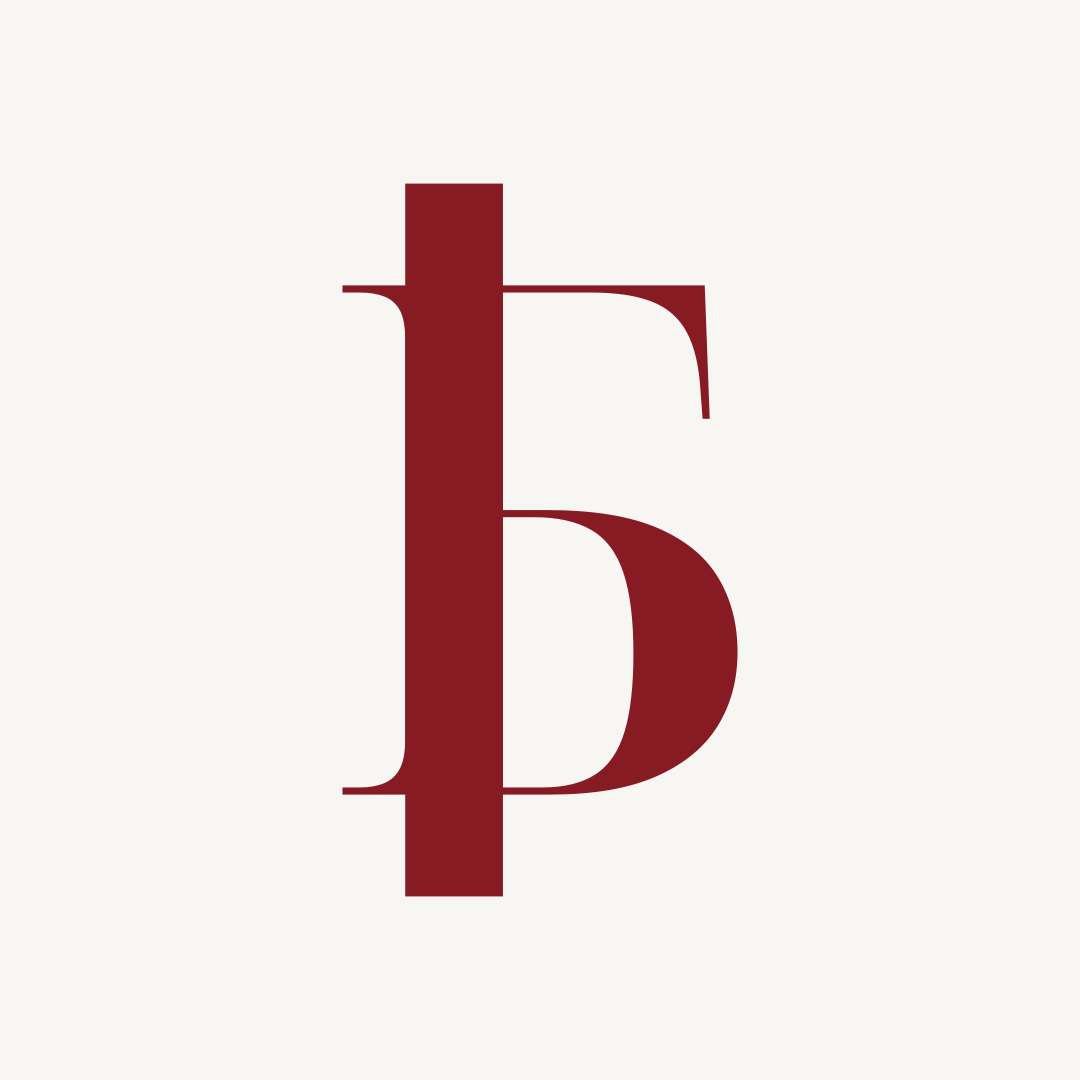
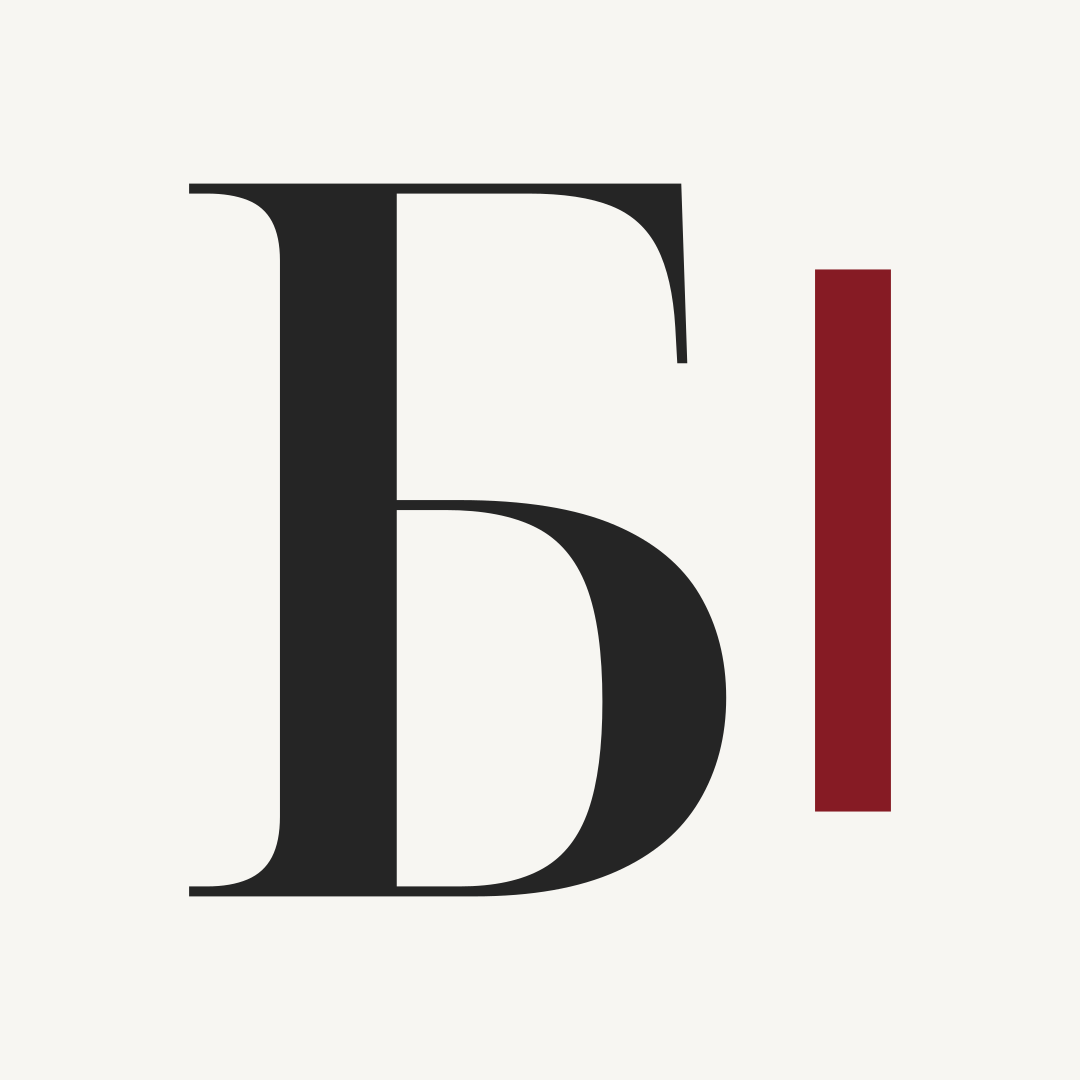
Логотип: «І» ще менша (76% висоти); іконки й OG — монограма «БІ» з актуального знака
Claude-Session: https://claude.ai/code/session_017yCdLiK5V92M84kmyQv6Ej

Changed region(s): [[0.1833, 0.1528, 0.7028, 0.8556], [0.7333, 0.2444, 0.825, 0.7639]]

diff --git a/lib/wordmark.ts b/lib/wordmark.ts
@@ -1,3 +1,3 @@
 // Згенеровано: brand/tools (npm run build). Не редагуйте вручну.
-export const wordmark = {"viewBox":"-8 -768 4331 786","glyphs":["M328 0L42 0L42-10L60-10Q84-10 100.5-17Q117-24 125-39.5Q133-55 133-80L133-80L133-637Q133-661 125-676Q117-691 100.5-697.5Q84-704 60-704L60-704L42-704L42-714L535-714L541-534L531-534L529-570Q526-620 511-649.5Q496-679 465-691.5Q434-704 382-704L382-704L250-704L250-397L313-397Q410-397 468.5-372Q527-347 553.5-302Q580-257 580-199L580-199Q580-141 553-95.5Q526-50 470-25Q414 0 328 0L328 0ZM250-10L313-10Q365-10 396.5-28Q428-46 442-86.5Q456-127 456-195L456-195Q456-269 440-310.5Q424-352 389.5-369.5Q355-387 299-387L299-387L250-387L250-10Z","M891 7L891 7Q849 7 827-12.5Q805-32 805-65L805-65Q805-91 817.5-106.5Q830-122 850-127L850-127Q855-112 871-96Q887-80 917-80L917-80Q930-80 947-85.5Q964-91 983-107Q1002-123 1019.5-155.5Q1037-188 1051-241L1051-241Q1059-274 1066.5-317.5Q1074-361 1080-407.5Q1086-454 1090.5-497.5Q1095-541 1097-575Q1099-609 1099-628L1099-628Q1099-662 1089-678Q1079-694 1061.5-699Q1044-704 1019-704L1019-704L957-704L957-714L1486-714L1486-704L1458-704Q1434-704 1417.5-697Q1401-690 1392.5-674.5Q1384-659 1384-634L1384-634L1384-80Q1384-55 1392.5-39.5Q1401-24 1417.5-17Q1434-10 1458-10L1458-10L1479-10L1479 0L1173 0L1173-10L1194-10Q1217-10 1234-17Q1251-24 1259-39.5Q1267-55 1267-80L1267-80L1267-704L1114-704Q1111-631 1105-555.5Q1099-480 1090.5-408Q1082-336 1070-272.5Q1058-209 1044-160L1044-160Q1025-96 1002.5-59.5Q980-23 953-8Q926 7 891 7Z","M1873 10L1873 10Q1765 10 1693.5-36Q1622-82 1587-165Q1552-248 1552-359L1552-359Q1552-470 1587-552Q1622-634 1694-679.5Q1766-725 1874-725L1874-725Q1977-725 2048.5-679.5Q2120-634 2157-551.5Q2194-469 2194-358L2194-358Q2194-247 2156.5-164.5Q2119-82 2047.5-36Q1976 10 1873 10ZM1873 0L1873 0Q1924 0 1961-20.5Q1998-41 2021-84.5Q2044-128 2055.5-196Q2067-264 2067-358L2067-358Q2067-452 2055.5-519.5Q2044-587 2021-630.5Q1998-674 1961.5-694.5Q1925-715 1874-715L1874-715Q1823-715 1786-694.5Q1749-674 1725-630.5Q1701-587 1689.5-519.5Q1678-452 1678-358L1678-358Q1678-264 1689.5-196Q1701-128 1724.5-84.5Q1748-41 1785-20.5Q1822 0 1873 0Z","M2565 0L2259 0L2259-10L2280-10Q2304-10 2320.5-17Q2337-24 2345.5-39Q2354-54 2354-79L2354-79L2354-638Q2354-662 2345.5-676.5Q2337-691 2320.5-697.5Q2304-704 2280-704L2280-704L2259-704L2259-714L2565-714L2565-704L2544-704Q2521-704 2504-697Q2487-690 2478.5-674.5Q2470-659 2470-634L2470-634L2470-305L2718-582Q2737-603 2749-619Q2761-635 2767-647.5Q2773-660 2773-670L2773-670Q2773-682 2763-689.5Q2753-697 2732-700Q2711-703 2677-703L2677-703L2677-714L2905-714L2905-703Q2882-703 2861-695.5Q2840-688 2816-668Q2792-648 2758-610L2758-610L2606-441L2821-126Q2844-92 2861.5-69.5Q2879-47 2892.5-34Q2906-21 2917-15.5Q2928-10 2940-10L2940-10L2942-10L2942 0L2919 0Q2867 0 2833.5-4.5Q2800-9 2778-19Q2756-29 2739.5-46.5Q2723-64 2706-91L2706-91L2529-355L2470-289L2470-80Q2470-55 2478.5-39.5Q2487-24 2504-17Q2521-10 2544-10L2544-10L2565-10L2565 0Z","M3247 0L2965 0L2965-10L2974-10Q3000-10 3018-17.5Q3036-25 3044.5-43Q3053-61 3053-95L3053-95L3053-668Q3053-700 3044-717.5Q3035-735 3018.5-742.5Q3002-750 2975-750L2975-750L2968-750L2968-760L3163-760L3163-482Q3163-463 3162-443L3162-443L3164-443Q3177-489 3201.5-511Q3226-533 3255.5-540Q3285-547 3311-547L3311-547Q3399-547 3442.5-500.5Q3486-454 3486-352L3486-352L3486-96Q3486-62 3493-43.5Q3500-25 3516.5-17.5Q3533-10 3559-10L3559-10L3563-10L3563 0L3376 0L3376-385Q3376-450 3354-489Q3332-528 3278-528L3278-528Q3234-528 3209-503Q3184-478 3173.5-437.5Q3163-397 3163-351L3163-351L3163-95Q3163-61 3171.5-43Q3180-25 3197.5-17.5Q3215-10 3240-10L3240-10L3247-10L3247 0Z","M3841 0L3598 0L3598-10L3630-10Q3652-10 3666-17Q3680-24 3691-40.5Q3702-57 3712-87L3712-87L3934-714L3998-714L4241-68Q4250-46 4258.5-33.5Q4267-21 4278.5-15.5Q4290-10 4305-10L4305-10L4315-10L4315 0L4025 0L4025-10L4057-10Q4090-10 4105.5-18.5Q4121-27 4121-49L4121-49Q4121-55 4120-61.5Q4119-68 4117.5-76.5Q4116-85 4112-94L4112-94L4052-260L3785-260L3729-103Q3725-94 3723-85Q3721-76 3719.5-68.5Q3718-61 3718-55L3718-55Q3718-30 3738.5-20Q3759-10 3805-10L3805-10L3841-10L3841 0ZM3861-477L3788-270L4048-270L3978-462Q3967-494 3956-525.5Q3945-557 3935.5-587Q3926-617 3919-644L3919-644Q3912-623 3905.5-603Q3899-583 3892-563Q3885-543 3877-522Q3869-501 3861-477L3861-477Z"],"bar":{"x":667,"y":-668,"w":76,"h":621}} as const;
-export const monogram = {"viewBox":"-8 -722 827 730","glyphs":["M328 0L42 0L42-10L60-10Q84-10 100.5-17Q117-24 125-39.5Q133-55 133-80L133-80L133-637Q133-661 125-676Q117-691 100.5-697.5Q84-704 60-704L60-704L42-704L42-714L535-714L541-534L531-534L529-570Q526-620 511-649.5Q496-679 465-691.5Q434-704 382-704L382-704L250-704L250-397L313-397Q410-397 468.5-372Q527-347 553.5-302Q580-257 580-199L580-199Q580-141 553-95.5Q526-50 470-25Q414 0 328 0L328 0ZM250-10L313-10Q365-10 396.5-28Q428-46 442-86.5Q456-127 456-195L456-195Q456-269 440-310.5Q424-352 389.5-369.5Q355-387 299-387L299-387L250-387L250-10Z"],"bar":{"x":673,"y":-668,"w":76,"h":621}} as const;
+export const wordmark = {"viewBox":"-8 -768 4323 786","glyphs":["M328 0L42 0L42-10L60-10Q84-10 100.5-17Q117-24 125-39.5Q133-55 133-80L133-80L133-637Q133-661 125-676Q117-691 100.5-697.5Q84-704 60-704L60-704L42-704L42-714L535-714L541-534L531-534L529-570Q526-620 511-649.5Q496-679 465-691.5Q434-704 382-704L382-704L250-704L250-397L313-397Q410-397 468.5-372Q527-347 553.5-302Q580-257 580-199L580-199Q580-141 553-95.5Q526-50 470-25Q414 0 328 0L328 0ZM250-10L313-10Q365-10 396.5-28Q428-46 442-86.5Q456-127 456-195L456-195Q456-269 440-310.5Q424-352 389.5-369.5Q355-387 299-387L299-387L250-387L250-10Z","M883 7L883 7Q841 7 819-12.5Q797-32 797-65L797-65Q797-91 809.5-106.5Q822-122 842-127L842-127Q847-112 863-96Q879-80 909-80L909-80Q922-80 939-85.5Q956-91 975-107Q994-123 1011.5-155.5Q1029-188 1043-241L1043-241Q1051-274 1058.5-317.5Q1066-361 1072-407.5Q1078-454 1082.5-497.5Q1087-541 1089-575Q1091-609 1091-628L1091-628Q1091-662 1081-678Q1071-694 1053.5-699Q1036-704 1011-704L1011-704L949-704L949-714L1478-714L1478-704L1450-704Q1426-704 1409.5-697Q1393-690 1384.5-674.5Q1376-659 1376-634L1376-634L1376-80Q1376-55 1384.5-39.5Q1393-24 1409.5-17Q1426-10 1450-10L1450-10L1471-10L1471 0L1165 0L1165-10L1186-10Q1209-10 1226-17Q1243-24 1251-39.5Q1259-55 1259-80L1259-80L1259-704L1106-704Q1103-631 1097-555.5Q1091-480 1082.5-408Q1074-336 1062-272.5Q1050-209 1036-160L1036-160Q1017-96 994.5-59.5Q972-23 945-8Q918 7 883 7Z","M1865 10L1865 10Q1757 10 1685.5-36Q1614-82 1579-165Q1544-248 1544-359L1544-359Q1544-470 1579-552Q1614-634 1686-679.5Q1758-725 1866-725L1866-725Q1969-725 2040.5-679.5Q2112-634 2149-551.5Q2186-469 2186-358L2186-358Q2186-247 2148.5-164.5Q2111-82 2039.5-36Q1968 10 1865 10ZM1865 0L1865 0Q1916 0 1953-20.5Q1990-41 2013-84.5Q2036-128 2047.5-196Q2059-264 2059-358L2059-358Q2059-452 2047.5-519.5Q2036-587 2013-630.5Q1990-674 1953.5-694.5Q1917-715 1866-715L1866-715Q1815-715 1778-694.5Q1741-674 1717-630.5Q1693-587 1681.5-519.5Q1670-452 1670-358L1670-358Q1670-264 1681.5-196Q1693-128 1716.5-84.5Q1740-41 1777-20.5Q1814 0 1865 0Z","M2557 0L2251 0L2251-10L2272-10Q2296-10 2312.5-17Q2329-24 2337.5-39Q2346-54 2346-79L2346-79L2346-638Q2346-662 2337.5-676.5Q2329-691 2312.5-697.5Q2296-704 2272-704L2272-704L2251-704L2251-714L2557-714L2557-704L2536-704Q2513-704 2496-697Q2479-690 2470.5-674.5Q2462-659 2462-634L2462-634L2462-305L2710-582Q2729-603 2741-619Q2753-635 2759-647.5Q2765-660 2765-670L2765-670Q2765-682 2755-689.5Q2745-697 2724-700Q2703-703 2669-703L2669-703L2669-714L2897-714L2897-703Q2874-703 2853-695.5Q2832-688 2808-668Q2784-648 2750-610L2750-610L2598-441L2813-126Q2836-92 2853.5-69.5Q2871-47 2884.5-34Q2898-21 2909-15.5Q2920-10 2932-10L2932-10L2934-10L2934 0L2911 0Q2859 0 2825.5-4.5Q2792-9 2770-19Q2748-29 2731.5-46.5Q2715-64 2698-91L2698-91L2521-355L2462-289L2462-80Q2462-55 2470.5-39.5Q2479-24 2496-17Q2513-10 2536-10L2536-10L2557-10L2557 0Z","M3239 0L2957 0L2957-10L2966-10Q2992-10 3010-17.5Q3028-25 3036.5-43Q3045-61 3045-95L3045-95L3045-668Q3045-700 3036-717.5Q3027-735 3010.5-742.5Q2994-750 2967-750L2967-750L2960-750L2960-760L3155-760L3155-482Q3155-463 3154-443L3154-443L3156-443Q3169-489 3193.5-511Q3218-533 3247.5-540Q3277-547 3303-547L3303-547Q3391-547 3434.5-500.5Q3478-454 3478-352L3478-352L3478-96Q3478-62 3485-43.5Q3492-25 3508.5-17.5Q3525-10 3551-10L3551-10L3555-10L3555 0L3368 0L3368-385Q3368-450 3346-489Q3324-528 3270-528L3270-528Q3226-528 3201-503Q3176-478 3165.5-437.5Q3155-397 3155-351L3155-351L3155-95Q3155-61 3163.5-43Q3172-25 3189.5-17.5Q3207-10 3232-10L3232-10L3239-10L3239 0Z","M3833 0L3590 0L3590-10L3622-10Q3644-10 3658-17Q3672-24 3683-40.5Q3694-57 3704-87L3704-87L3926-714L3990-714L4233-68Q4242-46 4250.5-33.5Q4259-21 4270.5-15.5Q4282-10 4297-10L4297-10L4307-10L4307 0L4017 0L4017-10L4049-10Q4082-10 4097.5-18.5Q4113-27 4113-49L4113-49Q4113-55 4112-61.5Q4111-68 4109.5-76.5Q4108-85 4104-94L4104-94L4044-260L3777-260L3721-103Q3717-94 3715-85Q3713-76 3711.5-68.5Q3710-61 3710-55L3710-55Q3710-30 3730.5-20Q3751-10 3797-10L3797-10L3833-10L3833 0ZM3853-477L3780-270L4040-270L3970-462Q3959-494 3948-525.5Q3937-557 3927.5-587Q3918-617 3911-644L3911-644Q3904-623 3897.5-603Q3891-583 3884-563Q3877-543 3869-522Q3861-501 3853-477L3853-477Z"],"bar":{"x":663,"y":-628,"w":76,"h":543}} as const;
+export const monogram = {"viewBox":"-8 -722 819 730","glyphs":["M328 0L42 0L42-10L60-10Q84-10 100.5-17Q117-24 125-39.5Q133-55 133-80L133-80L133-637Q133-661 125-676Q117-691 100.5-697.5Q84-704 60-704L60-704L42-704L42-714L535-714L541-534L531-534L529-570Q526-620 511-649.5Q496-679 465-691.5Q434-704 382-704L382-704L250-704L250-397L313-397Q410-397 468.5-372Q527-347 553.5-302Q580-257 580-199L580-199Q580-141 553-95.5Q526-50 470-25Q414 0 328 0L328 0ZM250-10L313-10Q365-10 396.5-28Q428-46 442-86.5Q456-127 456-195L456-195Q456-269 440-310.5Q424-352 389.5-369.5Q355-387 299-387L299-387L250-387L250-10Z"],"bar":{"x":669,"y":-628,"w":76,"h":543}} as const;

diff --git a/README.md b/README.md
@@ -65,7 +65,7 @@ npm run build      # перевірка продакшн-збірки
 
 ## Логотип
 
-**БIЛОKhA** — типографічний знак, а не шрифт і не рукопис. Літери Б Л О K h A взяті як контури з Noto Serif Display Medium з ручним трекінгом; латинська «I» замінена на власний елемент — тонку бордову вертикаль, що виходить за межі рядка (як закладка в книжці чи цезура у вірші). Це головна впізнавана деталь; разом з «Б» вона утворює монограму для іконки.
+**БIЛОKhA** — типографічний знак, а не шрифт і не рукопис. Літери Б Л О K h A взяті як контури з Noto Serif Display Medium з ручним трекінгом; латинська «I» замінена на власний елемент — тонку бордову вертикаль, на ~24% нижчу за великі літери й оптично відцентровану (як цезура у вірші). Це головна впізнавана деталь; разом з «Б» вона утворює монограму для іконки.
 
 | Файл (`brand/`, також `public/brand/`) | Призначення |
 |---|---|
@@ -73,7 +73,7 @@ npm run build      # перевірка продакшн-збірки
 | `bilokha-wordmark-mono.svg` | одноколірний |
 | `bilokha-wordmark-light.svg` | для темного тла / фото |
 | `bilokha-monogram.svg` | монограма «Б|» |
-| `bilokha-symbol.svg`, `bilokha-symbol-1080.png` | символ: власна «Б» з продовженим стемом — іконка, аватар для соцмереж |
+| `bilokha-symbol.svg`, `bilokha-symbol-1080.png` | символ: монограма «БІ» з логотипа — іконка, аватар для соцмереж |
 | `bilokha-og.png` | зображення для поширення посилань (1200×630) |
 | `bilokha-wordmark.png` | растрова версія 2400px |
 
